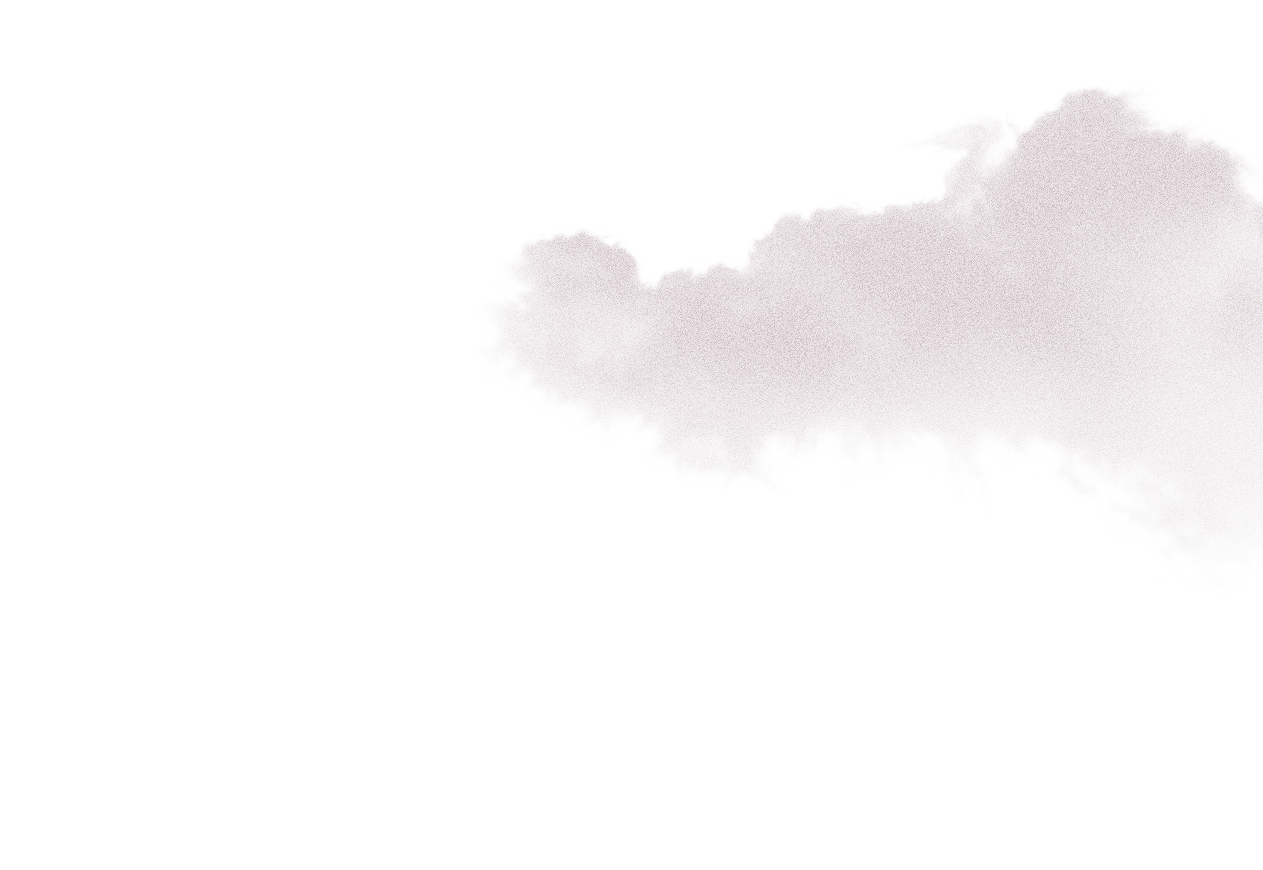
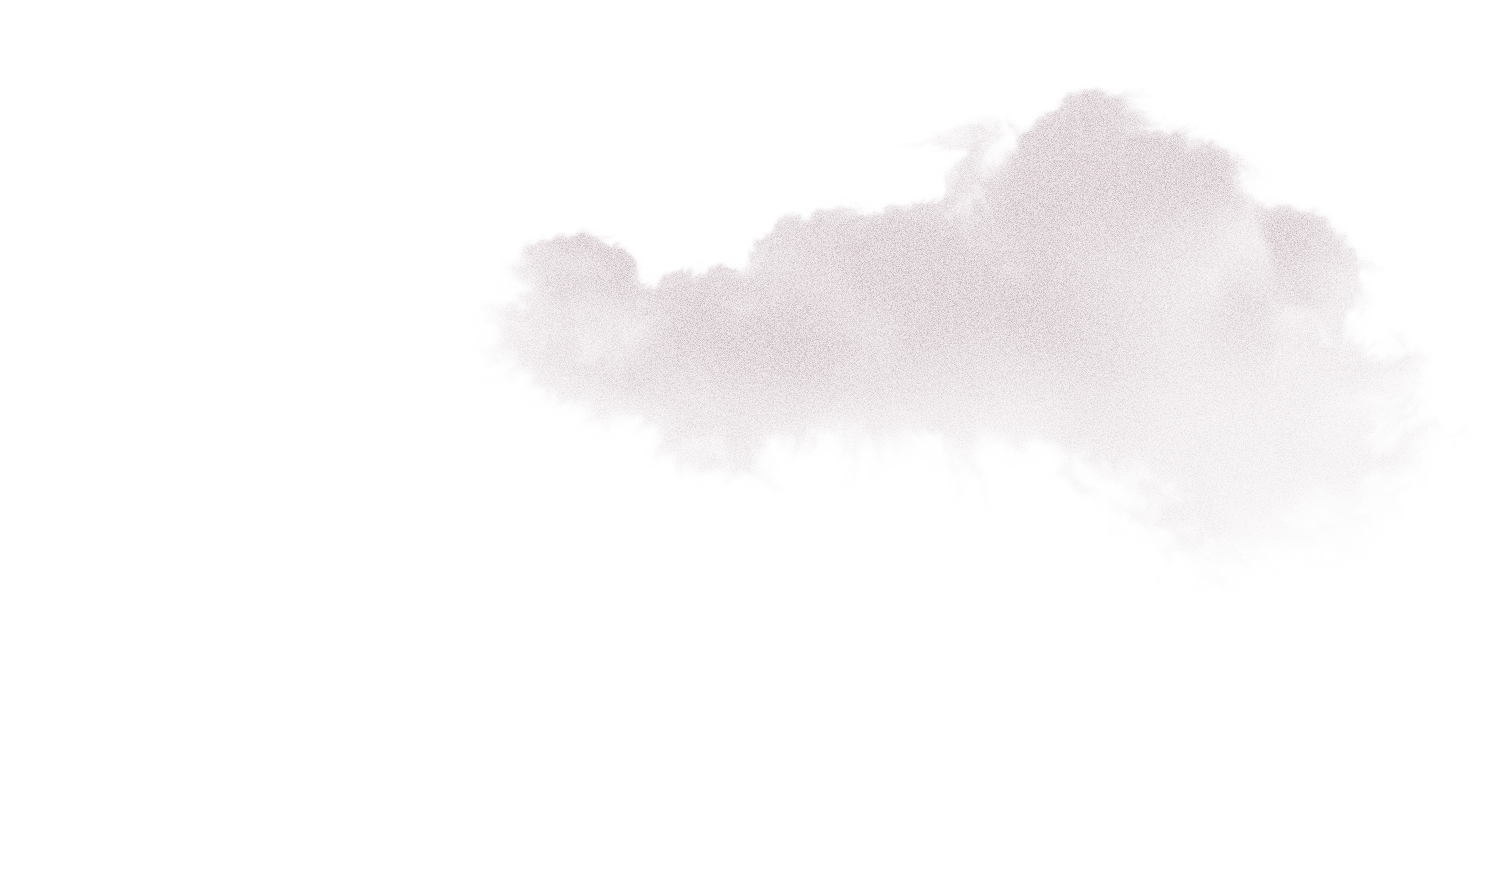
dsfdss

Changed region(s): [[0.3397, 0.0931, 1.0, 0.4655], [0.4632, 0.3414, 0.6485, 0.4345]]

diff --git a/styles.css b/styles.css
@@ -559,6 +559,60 @@ html, body, .container-1, .header-wrapper, .text-3 {
   z-index: 1;
 }
 
+@keyframes skyRightMove {
+  from {
+    right: -230px;
+    opacity: 0.86;
+  }
+  to {
+    right: -110vw;
+    opacity: 0;
+  }
+}
+
+@keyframes skyLeftMove {
+  from {
+    left: -100px;
+    opacity: 0.86;
+  }
+  to {
+    left: -110vw;
+    opacity: 0;
+  }
+}
+
+.sky-right {
+  position: absolute;
+  top: -30px;
+  right: -230px;
+  z-index: 10;
+  pointer-events: none;
+  user-select: none;
+  width: auto;
+  height: auto;
+  opacity: 0.86;
+  max-width: 1728px;
+  max-height: 972px;
+  filter: drop-shadow(0 0 10px rgba(0, 0, 0, 0.3));
+  animation: skyRightMove 100s linear forwards;
+}
+
+.sky-left {
+  position: absolute;
+  bottom: -300px;
+  left: -100px;
+  z-index: 10;
+  pointer-events: none;
+  user-select: none;
+  width: auto;
+  height: auto;
+  opacity: 0.86;
+  max-width: 1975px;
+  max-height: 1111px;
+  filter: drop-shadow(0 0 10px rgba(0, 0, 0, 0.3));
+  animation: skyLeftMove 100s linear forwards;
+}
+
 .section-3-content {
   width: 74.375rem;
   height: 45.75rem;

diff --git a/index.html b/index.html
@@ -20,7 +20,9 @@
           'images/contacts_bg.png',
           'images/image-4.png',
           'images/DANIEL MELNIKOV.svg',
-          'images/footer_qr.png'
+          'images/footer_qr.png',
+          'images/section-3/sky_right.png',
+          'images/section-3/sky_left.png'
         ];
         
         images.forEach(src => {
@@ -179,6 +181,8 @@ Blender (3D). Также в этом ролике <br>
     <div class="section-3" id="section-3">
       <img src="images/DANIEL MELNIKOV.svg" alt="DANIEL MELNIKOV" class="section-2-signature">
       <img src="images/DANIEL MELNIKOV.svg" alt="DANIEL MELNIKOV" class="section-2-signature section-2-signature-left">
+      <img src="images/section-3/sky_right.png" alt="Sky Right" class="sky-right">
+      <img src="images/section-3/sky_left.png" alt="Sky Left" class="sky-left">
       <div class="section-3-content">
         <h2 class="section-3-title">КЕЙСЫ</h2>
         <div class="black-block-wrapper">
